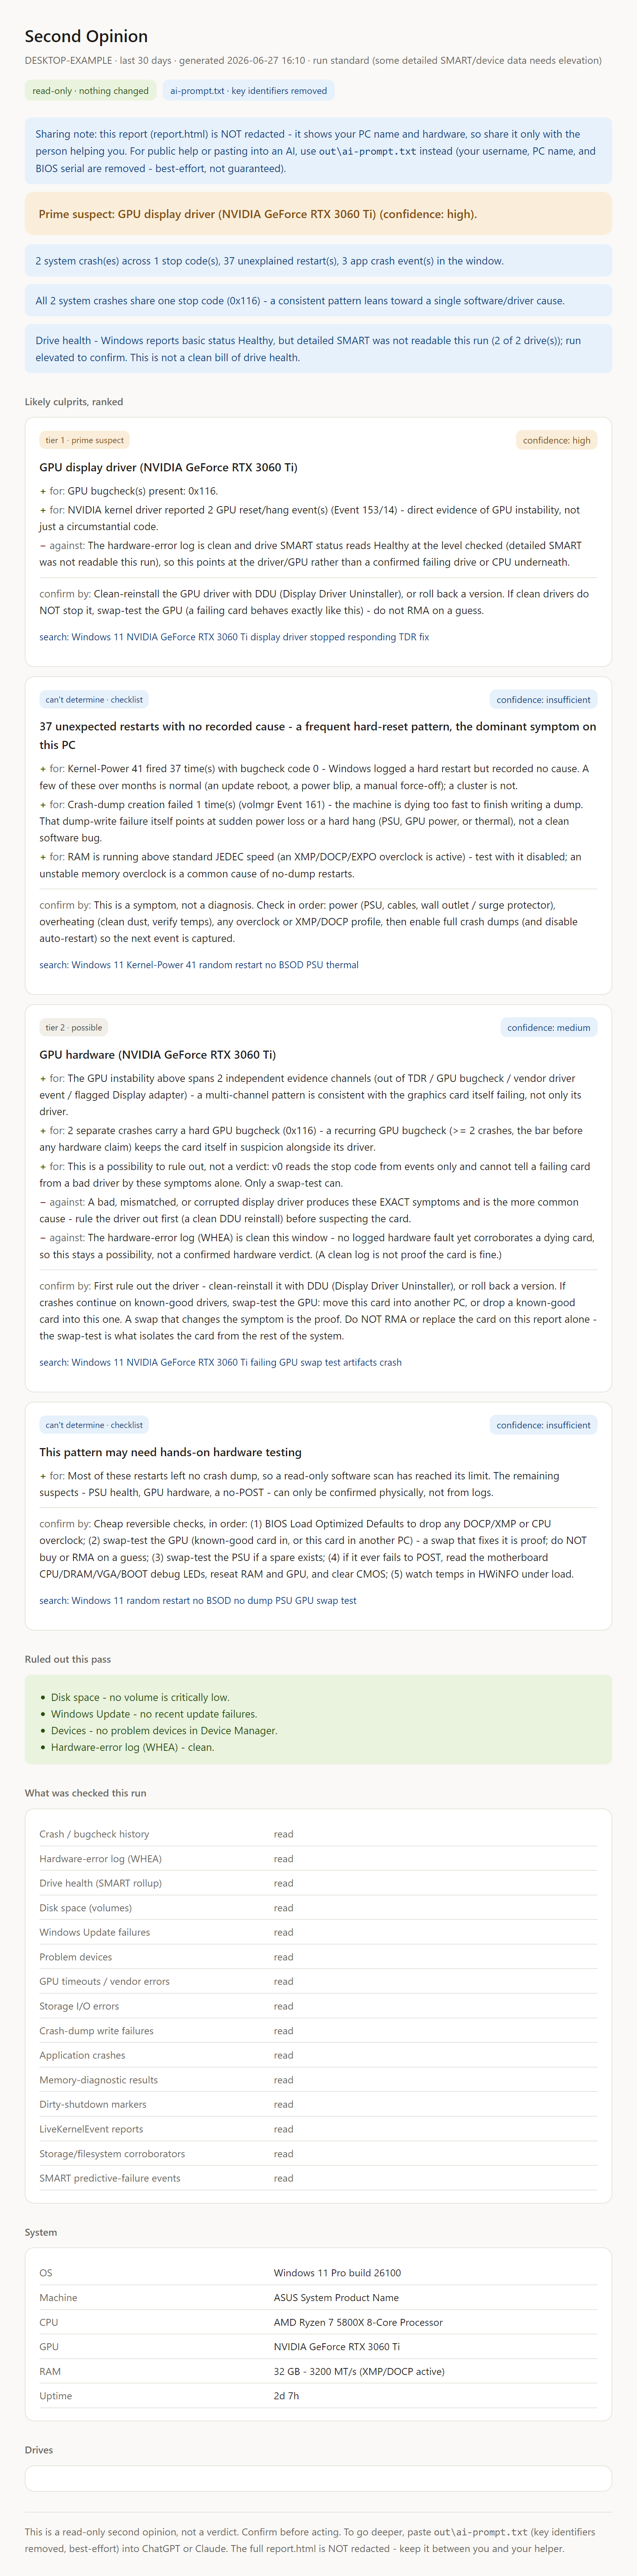
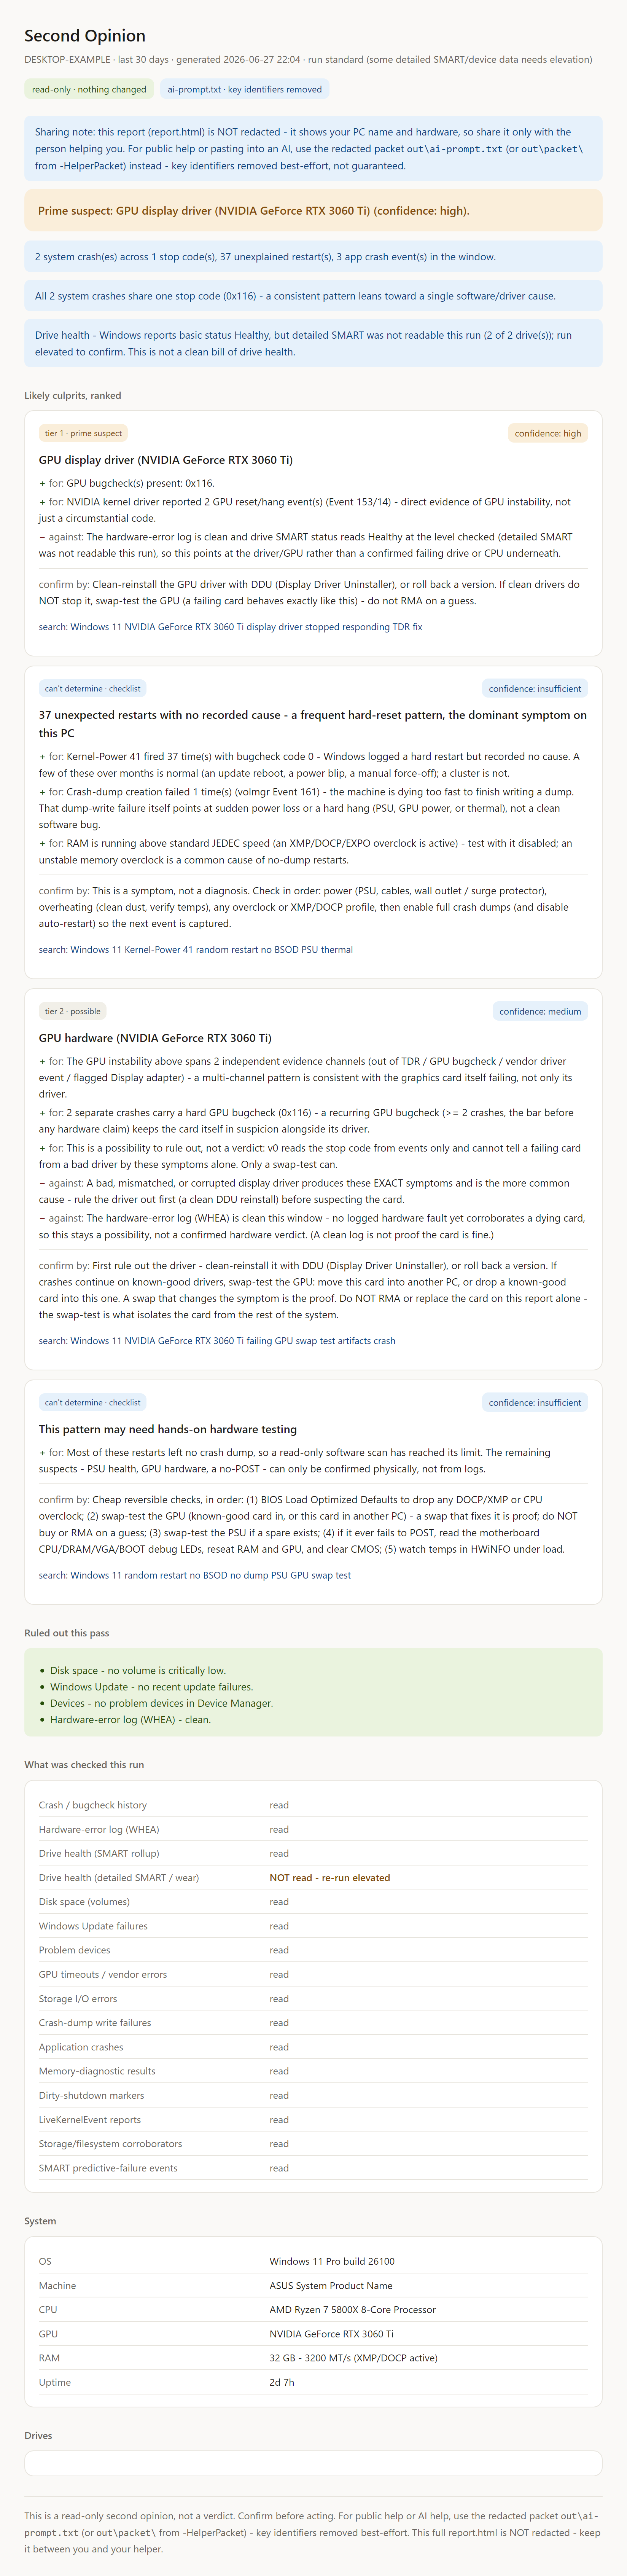
Share-safe FAQ fold (Hermes #3, Dylan-approved) + sample refresh
README: open-ended redaction description (B10-accurate: network addresses, Windows
profile path names, raw device display names), Writes table names the -HelperPacket
out\packet\ outputs, a "Privacy & what's safe to share" box (good-to-share /
don't-post lists), and a compact FAQ (which file to share, can I post report.html,
WinDbg replacement?, why inconclusive, what it reads/never does).
SECURITY: same open-ended redaction line + share-safe / don't-post artifact lists.
Report note + footer (src): promote the redacted packet (ai-prompt.txt or
out\packet\) + open-ended wording.
Sample refreshed to current output: the report copy above, PLUS the audit Fix #1
honesty line - the sample prompt/report now show "detailed SMART - NOT read" instead
of the stale "all signals were readable" over-claim. PNG re-rendered (light, 1648px).
Gate 51/249, 0 violated on PS 5.1 + 7.

Changed region(s): [[0.0309, 0.0, 0.9593, 0.9367], [0.0309, 0.9367, 0.8975, 0.9991], [0.4333, 0.8742, 0.6808, 0.9367]]

diff --git a/docs/sample-report.html b/docs/sample-report.html
@@ -53,9 +53,9 @@ td.k{color:var(--muted);width:42%}
 </style>
 </head><body><div class="wrap">
 <h1>Second Opinion</h1>
-<p class="sub">DESKTOP-EXAMPLE &middot; last 30 days &middot; generated 2026-06-27 16:10 &middot; run standard (some detailed SMART/device data needs elevation)</p>
+<p class="sub">DESKTOP-EXAMPLE &middot; last 30 days &middot; generated 2026-06-27 22:04 &middot; run standard (some detailed SMART/device data needs elevation)</p>
 <div class="badges"><span class="badge b-green">read-only &middot; nothing changed</span><span class="badge b-blue">ai-prompt.txt &middot; key identifiers removed</span></div>
-<div class="note">Sharing note: this report (report.html) is NOT redacted - it shows your PC name and hardware, so share it only with the person helping you. For public help or pasting into an AI, use <span class="mono">out\ai-prompt.txt</span> instead (your username, PC name, and BIOS serial are removed - best-effort, not guaranteed).</div>
+<div class="note">Sharing note: this report (report.html) is NOT redacted - it shows your PC name and hardware, so share it only with the person helping you. For public help or pasting into an AI, use the redacted packet <span class="mono">out\ai-prompt.txt</span> (or <span class="mono">out\packet\</span> from -HelperPacket) instead - key identifiers removed best-effort, not guaranteed.</div>
 <div class="headline hl-warn">Prime suspect: GPU display driver (NVIDIA GeForce RTX 3060 Ti) (confidence: high).</div>
 <div class="note">2 system crash(es) across 1 stop code(s), 37 unexplained restart(s), 3 app crash event(s) in the window.</div>
 <div class="note">All 2 system crashes share one stop code (0x116) - a consistent pattern leans toward a single software/driver cause.</div>
@@ -107,6 +107,7 @@ td.k{color:var(--muted);width:42%}
 <tr><td class="k">Crash / bugcheck history</td><td><span class="rd-ok">read</span></td></tr>
 <tr><td class="k">Hardware-error log (WHEA)</td><td><span class="rd-ok">read</span></td></tr>
 <tr><td class="k">Drive health (SMART rollup)</td><td><span class="rd-ok">read</span></td></tr>
+<tr><td class="k">Drive health (detailed SMART / wear)</td><td><span class="rd-no">NOT read - re-run elevated</span></td></tr>
 <tr><td class="k">Disk space (volumes)</td><td><span class="rd-ok">read</span></td></tr>
 <tr><td class="k">Windows Update failures</td><td><span class="rd-ok">read</span></td></tr>
 <tr><td class="k">Problem devices</td><td><span class="rd-ok">read</span></td></tr>
@@ -130,5 +131,5 @@ td.k{color:var(--muted);width:42%}
 </table></div>
 <div class="section-label">Drives</div><div class="card"><table>
 </table></div>
-<div class="foot">This is a read-only second opinion, not a verdict. Confirm before acting. To go deeper, paste <span class="mono">out\ai-prompt.txt</span> (key identifiers removed, best-effort) into ChatGPT or Claude. The full report.html is NOT redacted - keep it between you and your helper.</div>
+<div class="foot">This is a read-only second opinion, not a verdict. Confirm before acting. For public help or AI help, use the redacted packet <span class="mono">out\ai-prompt.txt</span> (or <span class="mono">out\packet\</span> from -HelperPacket) - key identifiers removed best-effort. This full report.html is NOT redacted - keep it between you and your helper.</div>
 </div></body></html>

diff --git a/README.md b/README.md
@@ -10,8 +10,9 @@ likely culprits, each with evidence for and against.** It then hands you two fil
 
 1. **`report.html`** — a self-contained report for you or the person helping you. It is **not redacted**
    (it shows the PC name and hardware), so share it only with your helper, never publicly.
-2. **`ai-prompt.txt`** — a ready-to-paste AI prompt with the **key identifiers removed** (username, PC name,
-   BIOS serial, MAC/IP — best-effort, not guaranteed). This is the one safe to paste into ChatGPT / Claude.
+2. **`ai-prompt.txt`** — a ready-to-paste AI prompt with **key identifiers removed on a best-effort basis**
+   (username, PC name, BIOS serial, network addresses, Windows profile path names, and raw device display names
+   that may carry personal labels — still not a guarantee). This is the one safe to paste into ChatGPT / Claude.
 
 Built for the person doing the helping. The friend with the broken PC just runs it (or you run it for them
 over Quick Assist) and sends back a file.
@@ -102,7 +103,7 @@ hash appears in `SHA256SUMS.txt`. A mismatch means a corrupted or interfered-wit
 | | |
 |---|---|
 | **Reads** (read-only) | Event Log crash / bugcheck / Kernel-Power-41 / WHEA / TDR / app-crash events; device status; drive SMART & reliability counters; volume free space; crash-dump policy |
-| **Writes** | only `report.html` and `ai-prompt.txt`, into the output folder you choose (default `.\out`) |
+| **Writes** | `report.html` + `ai-prompt.txt` into the output folder you choose (default `.\out`); with `-HelperPacket`, also the share-safe `out\packet\` files. Nothing else |
 | **Sends** | nothing — no network, ever. The AI step is *you* pasting a prompt into your own AI |
 | **Does NOT read** | your documents, browser history, emails, or personal files |
 
@@ -150,13 +151,19 @@ All read-only, all local — it reads (never writes) these and fuses them into t
 - Problem devices from Device Manager and application-crash events.
 - Optionally, your answers to a short symptom questionnaire (stored as integer codes — no free text).
 
-## Privacy & the two artifacts
+## Privacy & what's safe to share
 
-`report.html` is **unredacted** (PC name + hardware) — for your trusted helper only, never public.
-`ai-prompt.txt` has key identifiers removed on a **best-effort** basis (not a guarantee) — it's the
-share-safe one. There is no redacted HTML report yet; for public sharing, use `ai-prompt.txt`. Found an
-identifier that survives into `ai-prompt.txt`? That's a bug worth reporting — see [`SECURITY.md`](SECURITY.md)
-(please don't paste the surviving identifier into a public issue).
+`report.html` is **unredacted** (PC name + hardware) — for your trusted helper only, never public. For anything
+public — an AI, a forum, Discord, GitHub, screenshots — share the **redacted packet** instead.
+
+- **Safe to share:** `out\ai-prompt.txt`, and the `out\packet\` files from `-HelperPacket`
+  (`helper-summary.md`, `redacted-evidence.json`, `redaction-audit.txt`, `unreadable-signals.txt`).
+- **Don't post publicly:** `report.html`, the whole `out` folder, screenshots of `report.html`, or anything
+  you haven't checked for personal details.
+
+Redaction is **best-effort, not a guarantee**, and there is no redacted HTML report yet — for public sharing,
+use the redacted packet. Found an identifier that survives into `ai-prompt.txt`? That's a bug worth reporting —
+see [`SECURITY.md`](SECURITY.md) (please don't paste the surviving identifier into a public issue).
 
 ## Known limitations (v0, on purpose)
 
@@ -182,6 +189,26 @@ powershell -NoProfile -ExecutionPolicy Bypass -File .\tests\Run-Fixtures.ps1
 
 Architecture and the abstention/guardrail rationale live in [`docs/DESIGN.md`](docs/DESIGN.md);
 contributors, see [`CONTRIBUTING.md`](CONTRIBUTING.md).
+
+## FAQ
+
+**Which file do I paste into an AI or send to a helper?** The redacted text packet — `out\ai-prompt.txt`, or
+the `out\packet\` files if you ran with `-HelperPacket`. Not `report.html`.
+
+**Can I post `report.html` publicly?** No — it's the full unredacted report (PC name + hardware). For public
+help, forums, Discord, GitHub, or screenshots, use the redacted packet instead.
+
+**Is this a WinDbg / Sysinternals replacement?** No. It's a ranked pre-triage handoff that gives a human the
+honest short list and the cheapest confirm step — it doesn't replace deep debugging or a forum collector package.
+
+**Why does it sometimes say "inconclusive" instead of naming a culprit?** Because guessing is worse than
+abstaining. It says what it could read, what it couldn't, and what to capture next — it won't turn one weak clue
+into a verdict or send you to RMA hardware on a guess.
+
+**What does it read, and what does it never do?** It reads local Windows diagnostic signals (crash history,
+restart and hardware-error events, drive health, devices, app crashes, dump policy) and **never** installs
+anything, changes settings, edits the registry, uploads files, or contacts a server. Run `-WhatItReads` to see
+the full read list before trusting it; delete the `out` folder when you're done if you don't want to keep it.
 
 ## Troubleshooting
 

diff --git a/SECURITY.md b/SECURITY.md
@@ -10,16 +10,19 @@ public issue** — that would leak exactly what this tool is trying to protect.
 
 - **Privately (preferred for anything sensitive):** use GitHub's **private vulnerability reporting** on this
   repo (the **Security** tab → *Report a vulnerability*). It opens a private channel with the maintainer.
-- **Redaction gaps (the most valuable report):** `ai-prompt.txt` has key identifiers (username, PC name,
-  BIOS serial, MAC / IP) removed on a best-effort basis — it is *not* guaranteed. If you find an identifier
-  that survives into `ai-prompt.txt`, report it **privately**, and describe it in sanitized form (don't
-  include the real value).
+- **Redaction gaps (the most valuable report):** `ai-prompt.txt` has key identifiers removed on a best-effort
+  basis — username, PC name, BIOS serial, network addresses, Windows profile path names, and raw device display
+  names that may carry personal labels — but it is *not* guaranteed. If you find an identifier that survives
+  into `ai-prompt.txt`, report it **privately**, and describe it in sanitized form (don't include the real value).
 - **Ordinary bugs (no sensitive data):** a regular GitHub issue is fine.
 
 ## Artifact safety
 
 - `report.html` is **unredacted** (it shows the PC name and hardware). Share it only with the person helping
-  you, never publicly.
-- `ai-prompt.txt` is the share-safe artifact (best-effort redacted). There is no redacted HTML report yet.
+  you, never publicly — not on a forum, in a chat, or as a screenshot.
+- **Share-safe artifacts** (best-effort redacted): `ai-prompt.txt`, and the `out\packet\` files from
+  `-HelperPacket` (`helper-summary.md`, `redacted-evidence.json`, `redaction-audit.txt`,
+  `unreadable-signals.txt`). Use these for public help / AI / forums. There is no redacted HTML report yet.
+- **Don't post publicly:** `report.html`, the whole `out` folder, or screenshots of `report.html`.
 - The tool never writes outside the output folder you choose (default `.\out`) and never touches Windows
   settings, the registry, services, or drivers.